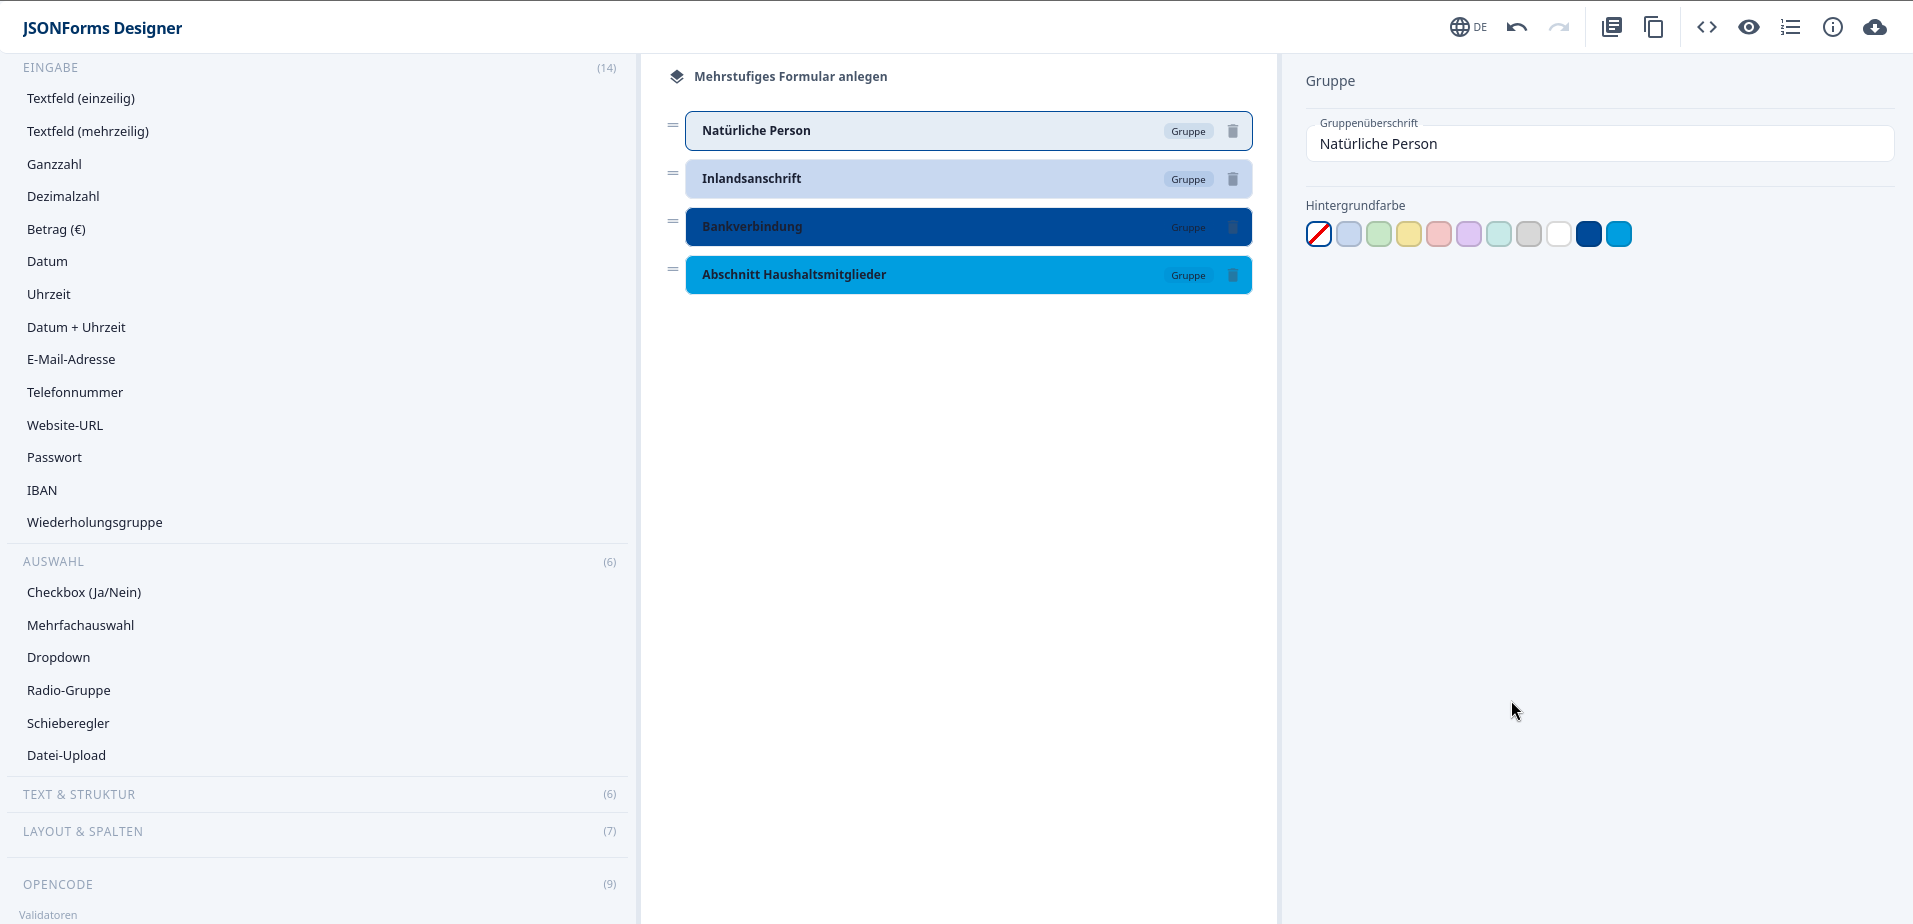
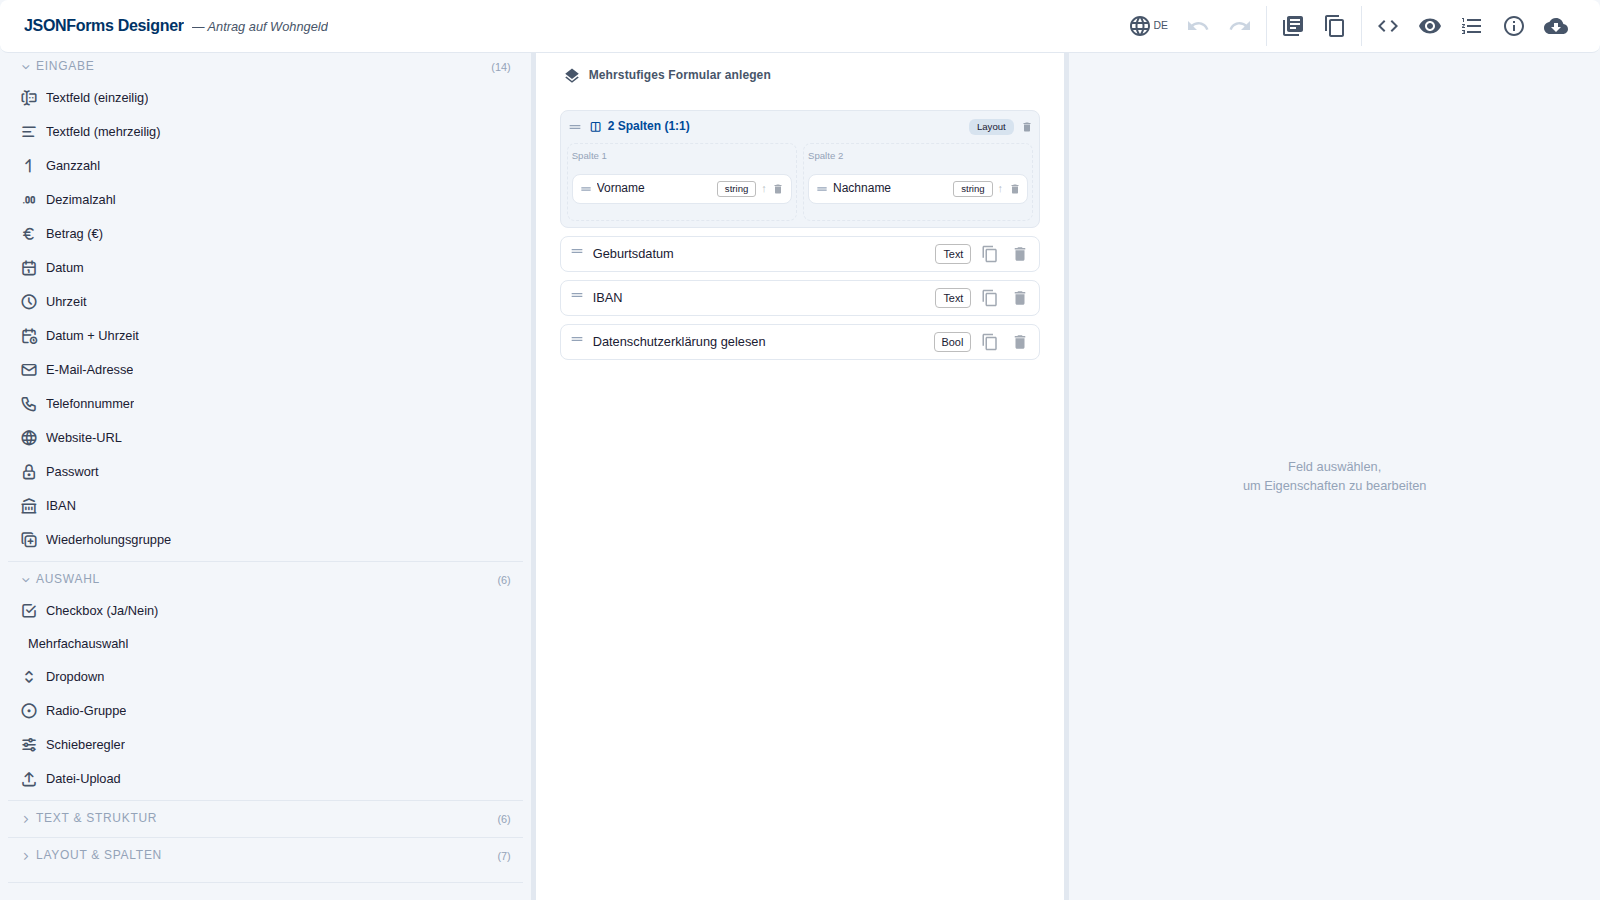
docs: Screenshots aktualisiert, CONTRIBUTING, ROADMAP und ADR-Verzeichnis
- README-Screenshots zeigten noch das dunkle Alt-Theme (vor v0.2.0);
  jetzt frisch generiert (helles Theme, realistisches Wohngeld-Demo-
  Formular mit Spalten-Layout und gefuelltem Eigenschaften-Panel).
  Reproduzierbar ueber e2e/screenshots.gen.spec.ts
  (GEN_SCREENSHOTS=1, FIM-Antworten gemockt, ohne Env geskippt).
- CONTRIBUTING.md: Setup, Projektstruktur, Qualitaets-Gates,
  Konventionen (Sprache, no-any, Single-Source-State, Commit-Stil,
  keine Laufzeit-CDNs), Screenshot-Anleitung.
- ROADMAP.md: kurz-/mittel-/langfristige Punkte aus dem Review
  (CSP-Haertung, Monaco-Lazy-Loading, ADR-0001-Stufe-2,
  Tastatur-Umsortieren, XDF 3.x, Backend-Referenzadapter).
- README verlinkt CONTRIBUTING/ROADMAP/ADRs.

diff --git a/packages/app/e2e/screenshots.gen.spec.ts b/packages/app/e2e/screenshots.gen.spec.ts
@@ -1,0 +1,144 @@
+/**
+ * Generator für die README-Screenshots (docs/*.png).
+ *
+ * Läuft NUR auf Anforderung:
+ *   npm run build && GEN_SCREENSHOTS=1 npx playwright test screenshots.gen
+ *
+ * FIM-Antworten werden gemockt, damit die Bilder deterministisch und ohne
+ * Netzzugriff entstehen.
+ */
+import { expect, type Page, test } from '@playwright/test';
+
+test.skip(
+  !process.env.GEN_SCREENSHOTS,
+  'Nur mit GEN_SCREENSHOTS=1 ausführen (Screenshot-Generator, kein Test)',
+);
+
+const DOCS = '../../docs';
+
+const DEMO_STATE = {
+  schema: {
+    type: 'object',
+    title: 'Antrag auf Wohngeld',
+    'x-publisher': 'Wohngeldstelle Musterstadt',
+    properties: {
+      vorname: { type: 'string', title: 'Vorname' },
+      nachname: { type: 'string', title: 'Nachname' },
+      geburtsdatum: { type: 'string', format: 'date', title: 'Geburtsdatum' },
+      iban: {
+        type: 'string',
+        title: 'IBAN',
+        pattern: '^[A-Z]{2}[0-9]{2}[A-Z0-9]{1,30}$',
+      },
+      einverstanden: {
+        type: 'boolean',
+        title: 'Datenschutzerklärung gelesen',
+      },
+    },
+    required: ['vorname', 'nachname'],
+  },
+  uiSchema: {
+    type: 'VerticalLayout',
+    elements: [
+      {
+        id: 'col_demo',
+        type: 'ColumnContainer',
+        widths: [1, 1],
+        columns: [
+          [{ id: 'c1', type: 'Control', scope: '#/properties/vorname' }],
+          [{ id: 'c2', type: 'Control', scope: '#/properties/nachname' }],
+        ],
+      },
+      { type: 'Control', scope: '#/properties/geburtsdatum' },
+      { type: 'Control', scope: '#/properties/iban' },
+      { type: 'Control', scope: '#/properties/einverstanden' },
+    ],
+  },
+  tabs: [],
+  activeTabIndex: 0,
+  tabAssignments: {},
+  lineNumbersEnabled: false,
+  sectionColors: {},
+};
+
+const FIM_GROUPS = {
+  items: [
+    {
+      fim_id: 'G60000086',
+      fim_version: '1.2',
+      name: 'Anschrift Inland',
+      beschreibung: 'Straße, Hausnummer, PLZ, Ort',
+    },
+    {
+      fim_id: 'G60000090',
+      fim_version: '1.0',
+      name: 'Natürliche Person (Basisdaten)',
+      beschreibung: 'Name, Vorname, Geburtsdatum',
+    },
+  ],
+};
+
+const FIM_FIELDS = {
+  items: [
+    {
+      fim_id: 'F60000227',
+      fim_version: '1.1',
+      name: 'Familienname',
+      beschreibung: 'Nachname der Person',
+      datentyp: 'text',
+    },
+    {
+      fim_id: 'F60000240',
+      fim_version: '1.0',
+      name: 'Geburtsdatum',
+      beschreibung: 'Tag der Geburt',
+      datentyp: 'date',
+    },
+  ],
+};
+
+async function gotoDemo(page: Page) {
+  await page.route('**/fimportal.de/api/v1/groups**', (route) =>
+    route.fulfill({ json: FIM_GROUPS }),
+  );
+  await page.route('**/fimportal.de/api/v1/fields**', (route) =>
+    route.fulfill({ json: FIM_FIELDS }),
+  );
+  await page.addInitScript(([key, state]) => localStorage.setItem(key, state), [
+    'jfd_fieldState_v1',
+    JSON.stringify(DEMO_STATE),
+  ] as const);
+  await page.setViewportSize({ width: 1600, height: 900 });
+  await page.goto('/');
+  await expect(page.getByTestId('field-row').first()).toBeVisible();
+}
+
+test('screenshot: visueller Modus', async ({ page }) => {
+  await gotoDemo(page);
+  // Feld selektieren, damit das Eigenschaften-Panel gefüllt ist
+  await page.getByTestId('field-row').first().click();
+  await page.waitForTimeout(400);
+  await page.screenshot({ path: `${DOCS}/screenshot-visual.png` });
+});
+
+test('screenshot: Code-Modus', async ({ page }) => {
+  await gotoDemo(page);
+  await page.getByRole('button', { name: 'Code-Modus' }).click();
+  await expect(page.locator('.view-lines').first()).toContainText('Wohngeld', {
+    timeout: 15_000,
+  });
+  await page.waitForTimeout(600);
+  await page.screenshot({ path: `${DOCS}/screenshot-code.png` });
+});
+
+test('screenshot: FIM-Bausteine', async ({ page }) => {
+  await gotoDemo(page);
+  // FIM-Sektion aufklappen, falls sie nicht schon offen ist
+  const fimItem = page.getByText('Anschrift Inland').first();
+  if (!(await fimItem.isVisible().catch(() => false))) {
+    await page.getByText('FIM-Bausteine', { exact: false }).first().click();
+  }
+  await expect(fimItem).toBeVisible({ timeout: 10_000 });
+  await page.waitForTimeout(400);
+  await page.screenshot({ path: `${DOCS}/screenshot-fim.png` });
+});

diff --git a/CONTRIBUTING.md b/CONTRIBUTING.md
@@ -1,0 +1,70 @@
+# Mitwirken am JSONForms Designer
+
+Danke für dein Interesse! Diese Seite fasst Setup, Konventionen und
+Qualitäts-Gates zusammen.
+
+## Setup
+
+```bash
+# Node-Version siehe .nvmrc (nvm use)
+npm install
+npm run dev          # Dev-Server auf http://localhost:3000
+```
+
+## Projektstruktur
+
+| Pfad | Inhalt |
+|---|---|
+| `packages/editor` | `@jsonforms-designer/editor` — einbettbare Bibliothek |
+| `packages/app` | Vite-Host-Anwendung (Deployment-Artefakt) |
+| `docs/adr/` | Architektur-Entscheidungen (ADRs) |
+
+## Qualitäts-Gates (laufen in der CI bei jedem PR)
+
+```bash
+npm run lint          # ESLint (Flat-Config, kein `any`)
+npm run format:check  # Prettier
+npm run typecheck     # tsc --noEmit, beide Pakete
+npm test              # Vitest (Unit, packages/editor)
+npm run build         # editor-dist + app-Build
+npm run test:e2e      # Playwright-Smoke gegen den Prod-Build (baut vorher)
+```
+
+Hinweis E2E lokal: Playwright-Browser einmalig installieren —
+`npx playwright install chromium`. Auf noch nicht unterstützten
+Ubuntu-Versionen: `PLAYWRIGHT_HOST_PLATFORM_OVERRIDE=ubuntu24.04-x64`
+voranstellen.
+
+## Konventionen
+
+- **Sprache:** Neue Module, Kommentare, Tests und Commit-Messages auf
+  Deutsch; der geerbte eclipsesource-Kern bleibt englisch.
+- **TypeScript:** `no-explicit-any` ist Fehler — konkrete Typen oder
+  `unknown` mit gezielten Casts verwenden.
+- **State:** `FieldAwareState` ist die einzige Laufzeit-Quelle
+  (ADR 0001) — keine neuen Zuflüsse in den geerbten Baum-State.
+- **Tests:** Neue Logik (Reducer, Utils, Services) bekommt Unit-Tests;
+  neue UI-Kernpfade einen E2E-Smoke. Security-relevanter Code
+  (Sanitizing, Escaping, HTTP-Clients) wird immer getestet.
+- **Commits:** Conventional-Commit-Präfixe (`feat:`, `fix:`, `test:`,
+  `refactor:`, `chore:`, `ci:`, `docs:`, `style:`); Begründung in den
+  Body, kein Co-Authored-By-Trailer.
+- **Abhängigkeiten:** Keine Laufzeit-CDN-Zugriffe (Intranet-Fähigkeit!);
+  `npm audit` muss sauber bleiben — Overrides siehe Root-`package.json`.
+
+## Screenshots aktualisieren
+
+```bash
+npm run build
+cd packages/app
+GEN_SCREENSHOTS=1 npx playwright test screenshots.gen
+```
+
+Erzeugt `docs/screenshot-{visual,code,fim}.png` deterministisch
+(FIM-Antworten gemockt).
+
+## Architektur-Entscheidungen
+
+Größere Richtungsentscheidungen werden als ADR unter `docs/adr/`
+dokumentiert (Kontext → Entscheidung → Konsequenzen). Bestehende ADRs
+bitte lesen, bevor angrenzende Bereiche umgebaut werden.

diff --git a/ROADMAP.md b/ROADMAP.md
@@ -1,0 +1,35 @@
+# Roadmap
+
+Stand: Juni 2026. Reihenfolge = grobe Priorität; keine Terminzusagen.
+
+## Kurzfristig (0.3.x)
+
+- [ ] **Release v0.3.0** mit den konsolidierten Änderungen (CI, self-hosted
+      Monaco, Persistenz-Adapter, E2E-Suite, Tastatur-Pfad, ADR 0001 Stufe 1)
+- [ ] **CSP härten:** Prüfen, ob `'unsafe-eval'` nach der Monaco-ESM-Umstellung
+      entfernt werden kann (TODO in `packages/app/vite.config.ts`)
+- [ ] **Bundle-Optimierung:** Code-Modus (Monaco, ~1 MB gzip) lazy laden,
+      Initial-Bundle zurück Richtung ~0,5 MB gzip
+
+## Mittelfristig
+
+- [ ] **State-Konsolidierung Stufe 2** (ADR 0001): tote Baum-Module entfernen
+      (alte Palette, `core/renderers/`, Baum-Reducer-Zweige) — Breaking,
+      daher gebündelt als Major-Cleanup
+- [ ] **Tastatur-Umsortieren** von Feldern (BITV-Lücke; Hinzufügen geht
+      bereits per Enter/Leertaste)
+- [ ] **Referenz-Backend-Adapter:** kleines Beispiel-Backend +
+      `HttpFieldStateService` als Paket-Export statt nur README-Snippet
+- [ ] **FIM-Proxy-Beispiel** (CORS/Firewall): dokumentierte Reverse-Proxy-
+      Konfiguration für abgeschottete Netze
+
+## Langfristig / zu bewerten
+
+- [ ] **XDatenfelder 3.x:** Export an den aktuellen Standard anschließen
+      (heute: XDF 2.0)
+- [ ] **BITV-2.0-Vollprüfung** mit externem Audit
+- [ ] **Versionierung/Audit-Trail** für Formularstände (heute nur
+      `x-version`-Metadatum)
+- [ ] **Codelisten-Nachladen** aus der FIM-API
+      (`/fields/{fim_id}/{version}`) statt nur `code_list_id`
+- [ ] **npm-Veröffentlichung** von `@jsonforms-designer/editor`

diff --git a/README.md b/README.md
@@ -435,6 +435,14 @@ interface OpenCodeService {
 
 ---
 
+## Mitwirken & Roadmap
+
+- [CONTRIBUTING.md](./CONTRIBUTING.md) — Setup, Konventionen, Qualitäts-Gates
+- [ROADMAP.md](./ROADMAP.md) — geplante Weiterentwicklung
+- [docs/adr/](./docs/adr/) — Architektur-Entscheidungen (ADRs)
+
+---
+
 ## Lizenz
 
 MIT — siehe [LICENSE](./LICENSE).

diff --git a/CHANGELOG.md b/CHANGELOG.md
@@ -13,6 +13,7 @@ Format nach [Keep a Changelog](https://keepachangelog.com/de/1.0.0/), Versionier
 - **vitest auf ≥ 3.2.6** (GHSA-5xrq-8626-4rwp, critical: Datei-Lesezugriff über den Vitest-UI-Server).
 
 ### Hinzugefügt
+- **Projekt-Doku:** `CONTRIBUTING.md` (Setup, Konventionen, Qualitäts-Gates), `ROADMAP.md` und ADR-Verzeichnis (`docs/adr/`). README-Screenshots auf das aktuelle helle Theme aktualisiert — reproduzierbar über einen Playwright-Generator (`GEN_SCREENSHOTS=1`, FIM gemockt).
 - **Tastatur-Alternativpfad zum Drag & Drop (BITV):** Palette-Einträge sind fokussierbar (`role="button"`); Enter/Leertaste fügt den Feldtyp ans Formularende an (im aktiven Tab). Tastatur-Umsortieren bleibt offen (siehe README, Bekannte Einschränkungen).
 - **Unit-Tests für `xdfExport`** (XML-Escaping/Injection-Schutz, Typ-Mapping, Codelisten, Einschränkungen) **und `fimApiService`** (URL-Bau, Header, Normalisierung, Fehlerfälle) — 28 neue Tests.
 - **CI-Workflow** (GitHub Actions): Lint, Typecheck, Tests und Build laufen bei jedem Push/PR.